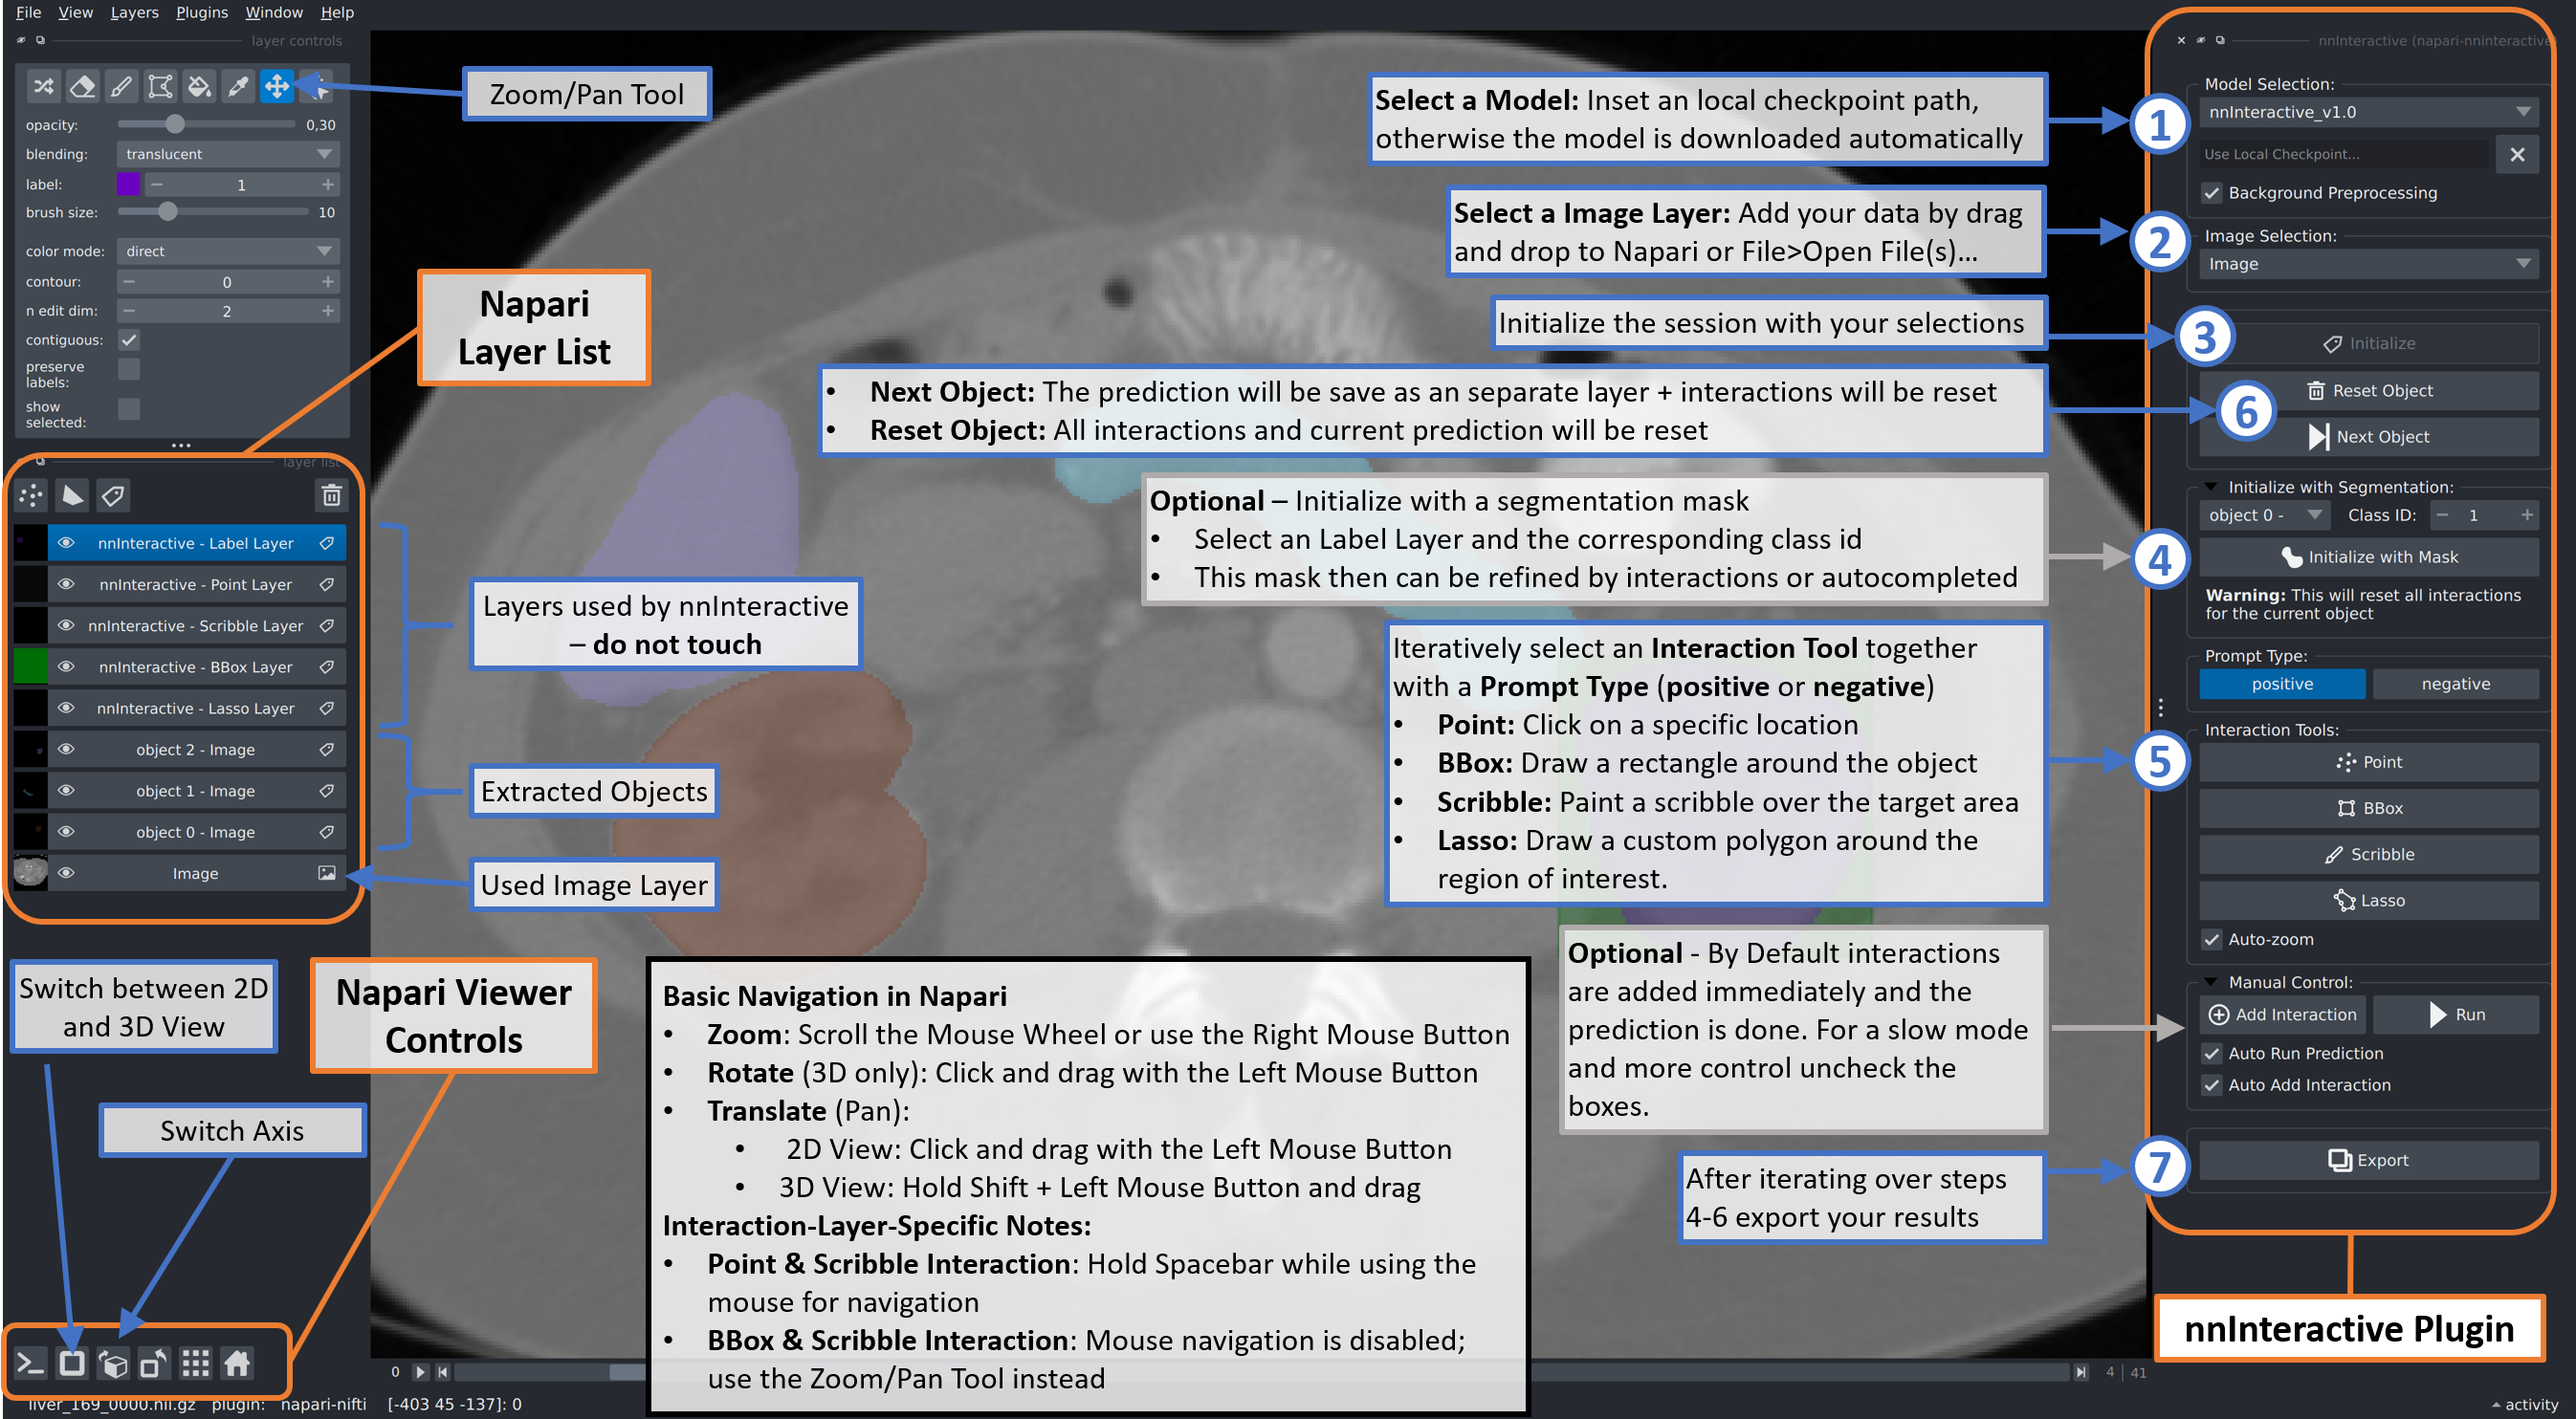
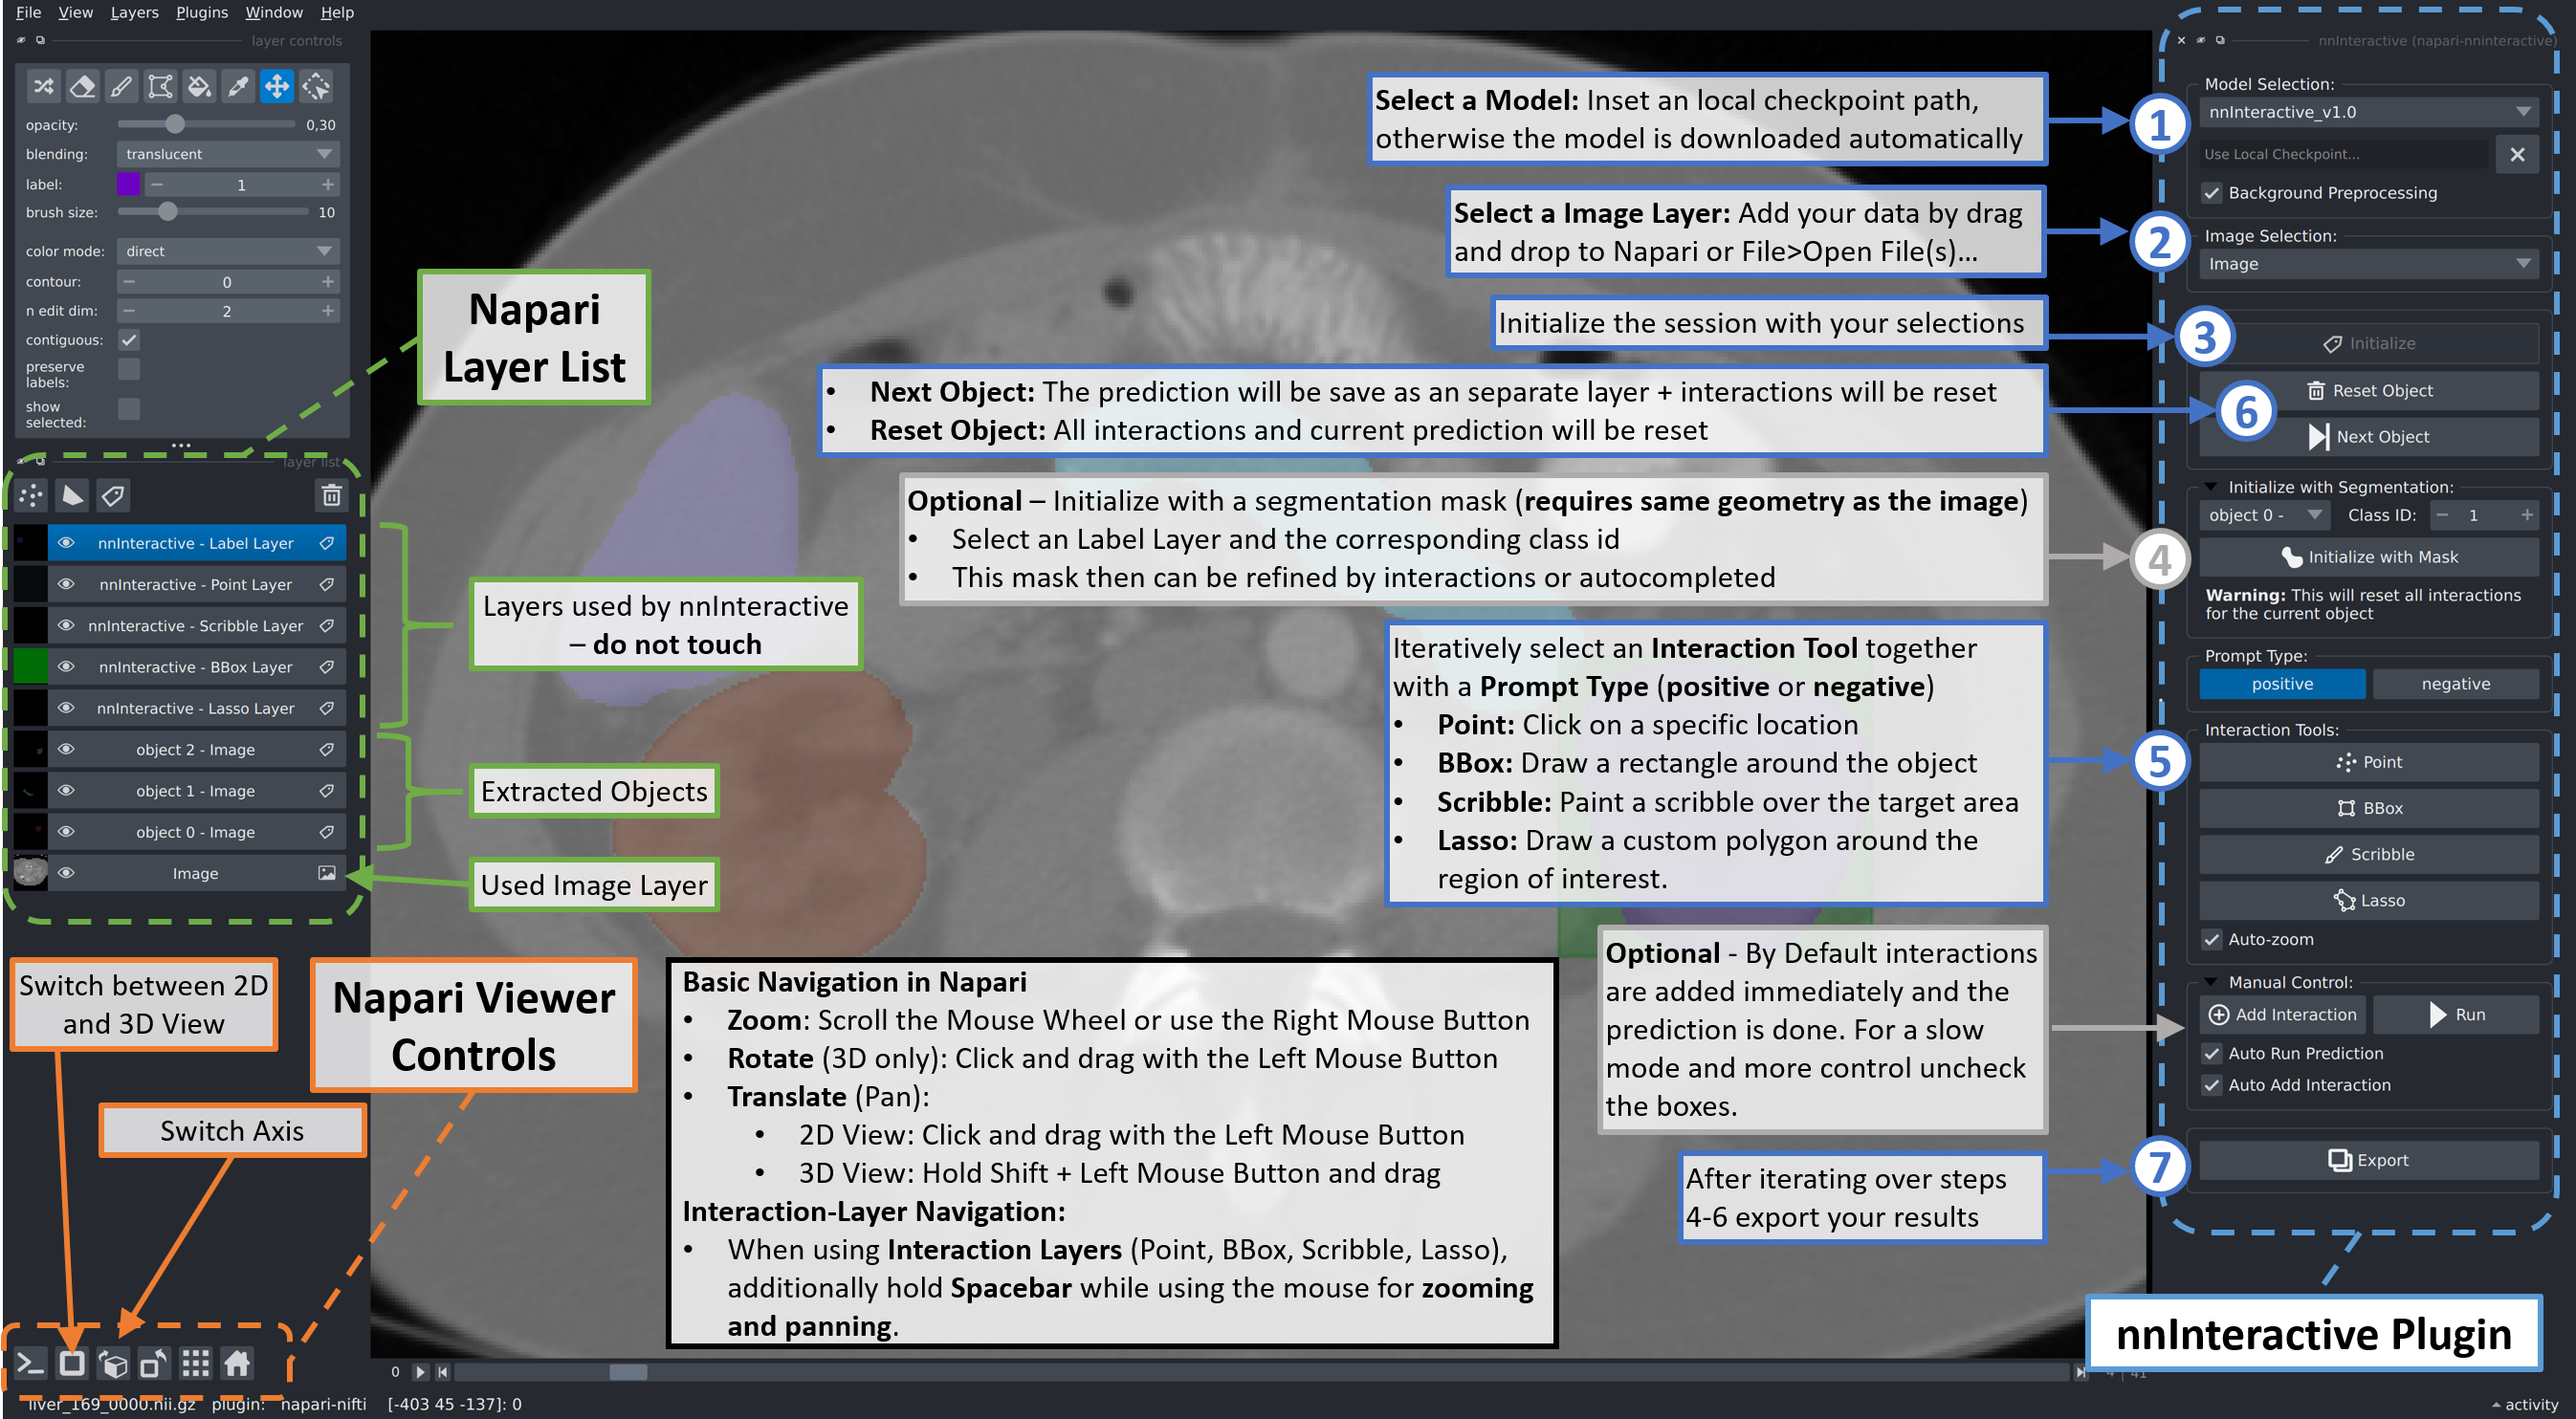
Improved and consistent navigation in interaction layers

diff --git a/src/napari_nninteractive/widget_controls.py b/src/napari_nninteractive/widget_controls.py
@@ -1,4 +1,5 @@
 import os
+import warnings
 from pathlib import Path
 from typing import Any, Optional
 
@@ -252,17 +253,19 @@ class LayerControls(BaseGUI):
         _spacing = image_layer.scale
 
         # 1. Check and Correct Non Orthogonal Data
-        if not image_layer._slice_input.is_orthogonal(_affine):
-            _origin = _affine.translate
-            # we ignore directtion and shear
-            _affine = Affine(scale=_spacing, translate=_origin)
-            show_warning(
-                "Your data is non-orthogonal. This is not supported by napari. "
-                "To fix this the direction is ignored during visualizing which changes the appearance (only visual) of your data. "
-            )
-            _step = self._viewer.dims.current_step
-            image_layer.affine = _affine
-            self._viewer.dims.current_step = _step
+        with warnings.catch_warnings():
+            warnings.simplefilter("ignore", FutureWarning)
+            if not image_layer._slice_input.is_orthogonal(_affine):
+                _origin = _affine.translate
+                # we ignore directtion and shear
+                _affine = Affine(scale=_spacing, translate=_origin)
+                show_warning(
+                    "Your data is non-orthogonal. This is not supported by napari. "
+                    "To fix this the direction is ignored during visualizing which changes the appearance (only visual) of your data. "
+                )
+                _step = self._viewer.dims.current_step
+                image_layer.affine = _affine
+                self._viewer.dims.current_step = _step
 
         # 2. Convert 2D to dummy 3D data
         if _ndim == 2:
@@ -344,6 +347,10 @@ class LayerControls(BaseGUI):
         if layer_name is not None and layer_name in self._viewer.layers:  # Activate the Layer
             self._viewer.layers.selection.clear()
             self._viewer.layers.selection.add(self._viewer.layers[layer_name])
+            self._viewer.layers.selection.active = self._viewer.layers[layer_name]
+
+            self._viewer.layers.selection.events.active(value=self._viewer.layers[layer_name])
+
         elif self.interaction_type == 0:  # Add Point Layer
             self.add_point_layer()
         elif self.interaction_type == 1:  # Add BBox Layer
@@ -352,6 +359,10 @@ class LayerControls(BaseGUI):
             self.add_scribble_layer()
         elif self.interaction_type == 3:  # Add Lasso Layer
             self.add_lasso_layer()
+
+        with warnings.catch_warnings():
+            warnings.simplefilter("ignore", FutureWarning)
+            self._viewer.window._qt_viewer.setFocus()
 
     def on_run(self):
         if self.session is not None:

diff --git a/src/napari_nninteractive/widget_gui.py b/src/napari_nninteractive/widget_gui.py
@@ -74,7 +74,7 @@ class BaseGUI(QWidget):
         _scroll_layout.addWidget(self._init_run_button())  # Run Button
         _scroll_layout.addWidget(self._init_export_button())  # Run Button
 
-        # _scroll_layout.addWidget(self._init_acknowledgements())  # Acknowledgements
+        _scroll_layout.addWidget(self._init_acknowledgements())  # Acknowledgements
 
         self._unlock_session()
         self._viewer.bind_key("Ctrl+Q", self._close, overwrite=True)
